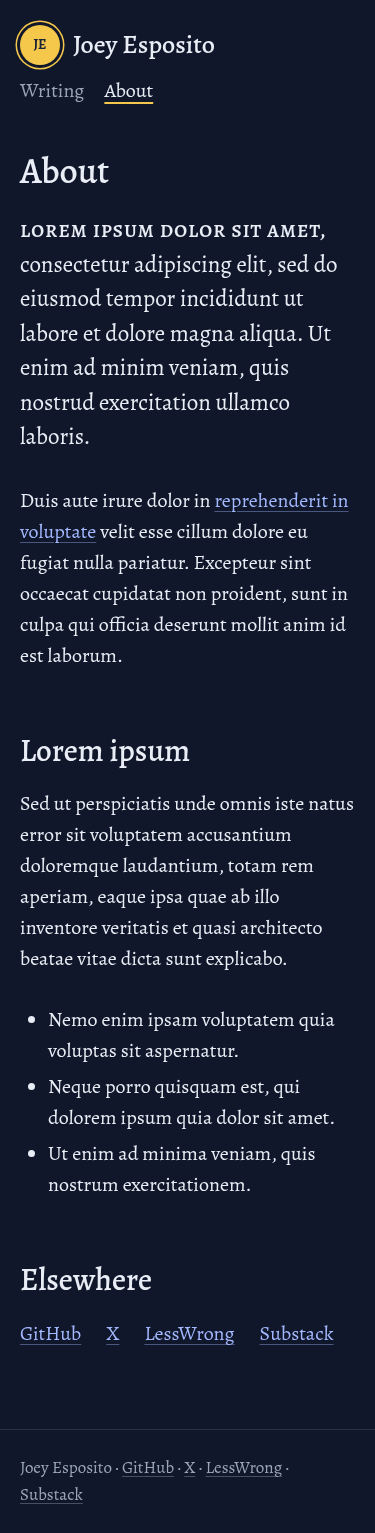
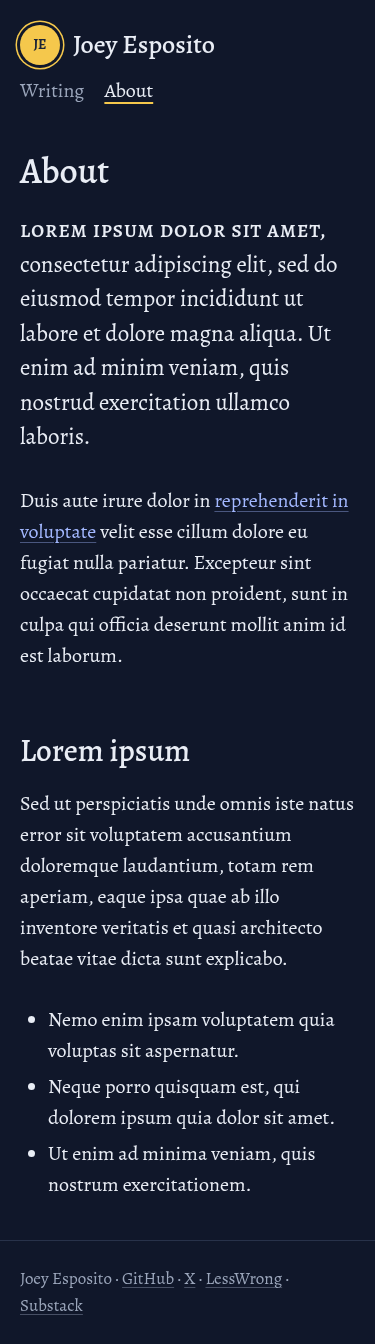
Hide the monogram on the home page; update screenshots

diff --git a/src/styles/global.css b/src/styles/global.css
@@ -74,6 +74,8 @@ sup { line-height: 0; }
 
 .site-header { display: flex; flex-wrap: wrap; align-items: center; justify-content: space-between; gap: 0.5rem 1.25rem; padding-block: 1.25rem 0.5rem; }
 .site-name { display: inline-flex; align-items: center; gap: 0.65rem; font-size: 1.3rem; font-weight: 500; color: var(--fg); text-decoration: none; }
+/* The home page shows the name without the monogram. */
+body:has(.home) .site-name .avatar { display: none; }
 .avatar { display: inline-grid; place-items: center; flex: none; width: 2rem; height: 2rem; border-radius: 50%; background: var(--sun); color: var(--on-sun); font: 700 0.7rem/1 var(--font-text); box-shadow: 0 0 0 3px var(--bg), 0 0 0 4.5px var(--sun); }
 .site-nav { display: flex; flex-wrap: wrap; align-items: baseline; gap: 0.15rem 1rem; }
 .site-nav a { color: var(--muted); text-decoration: none; }
